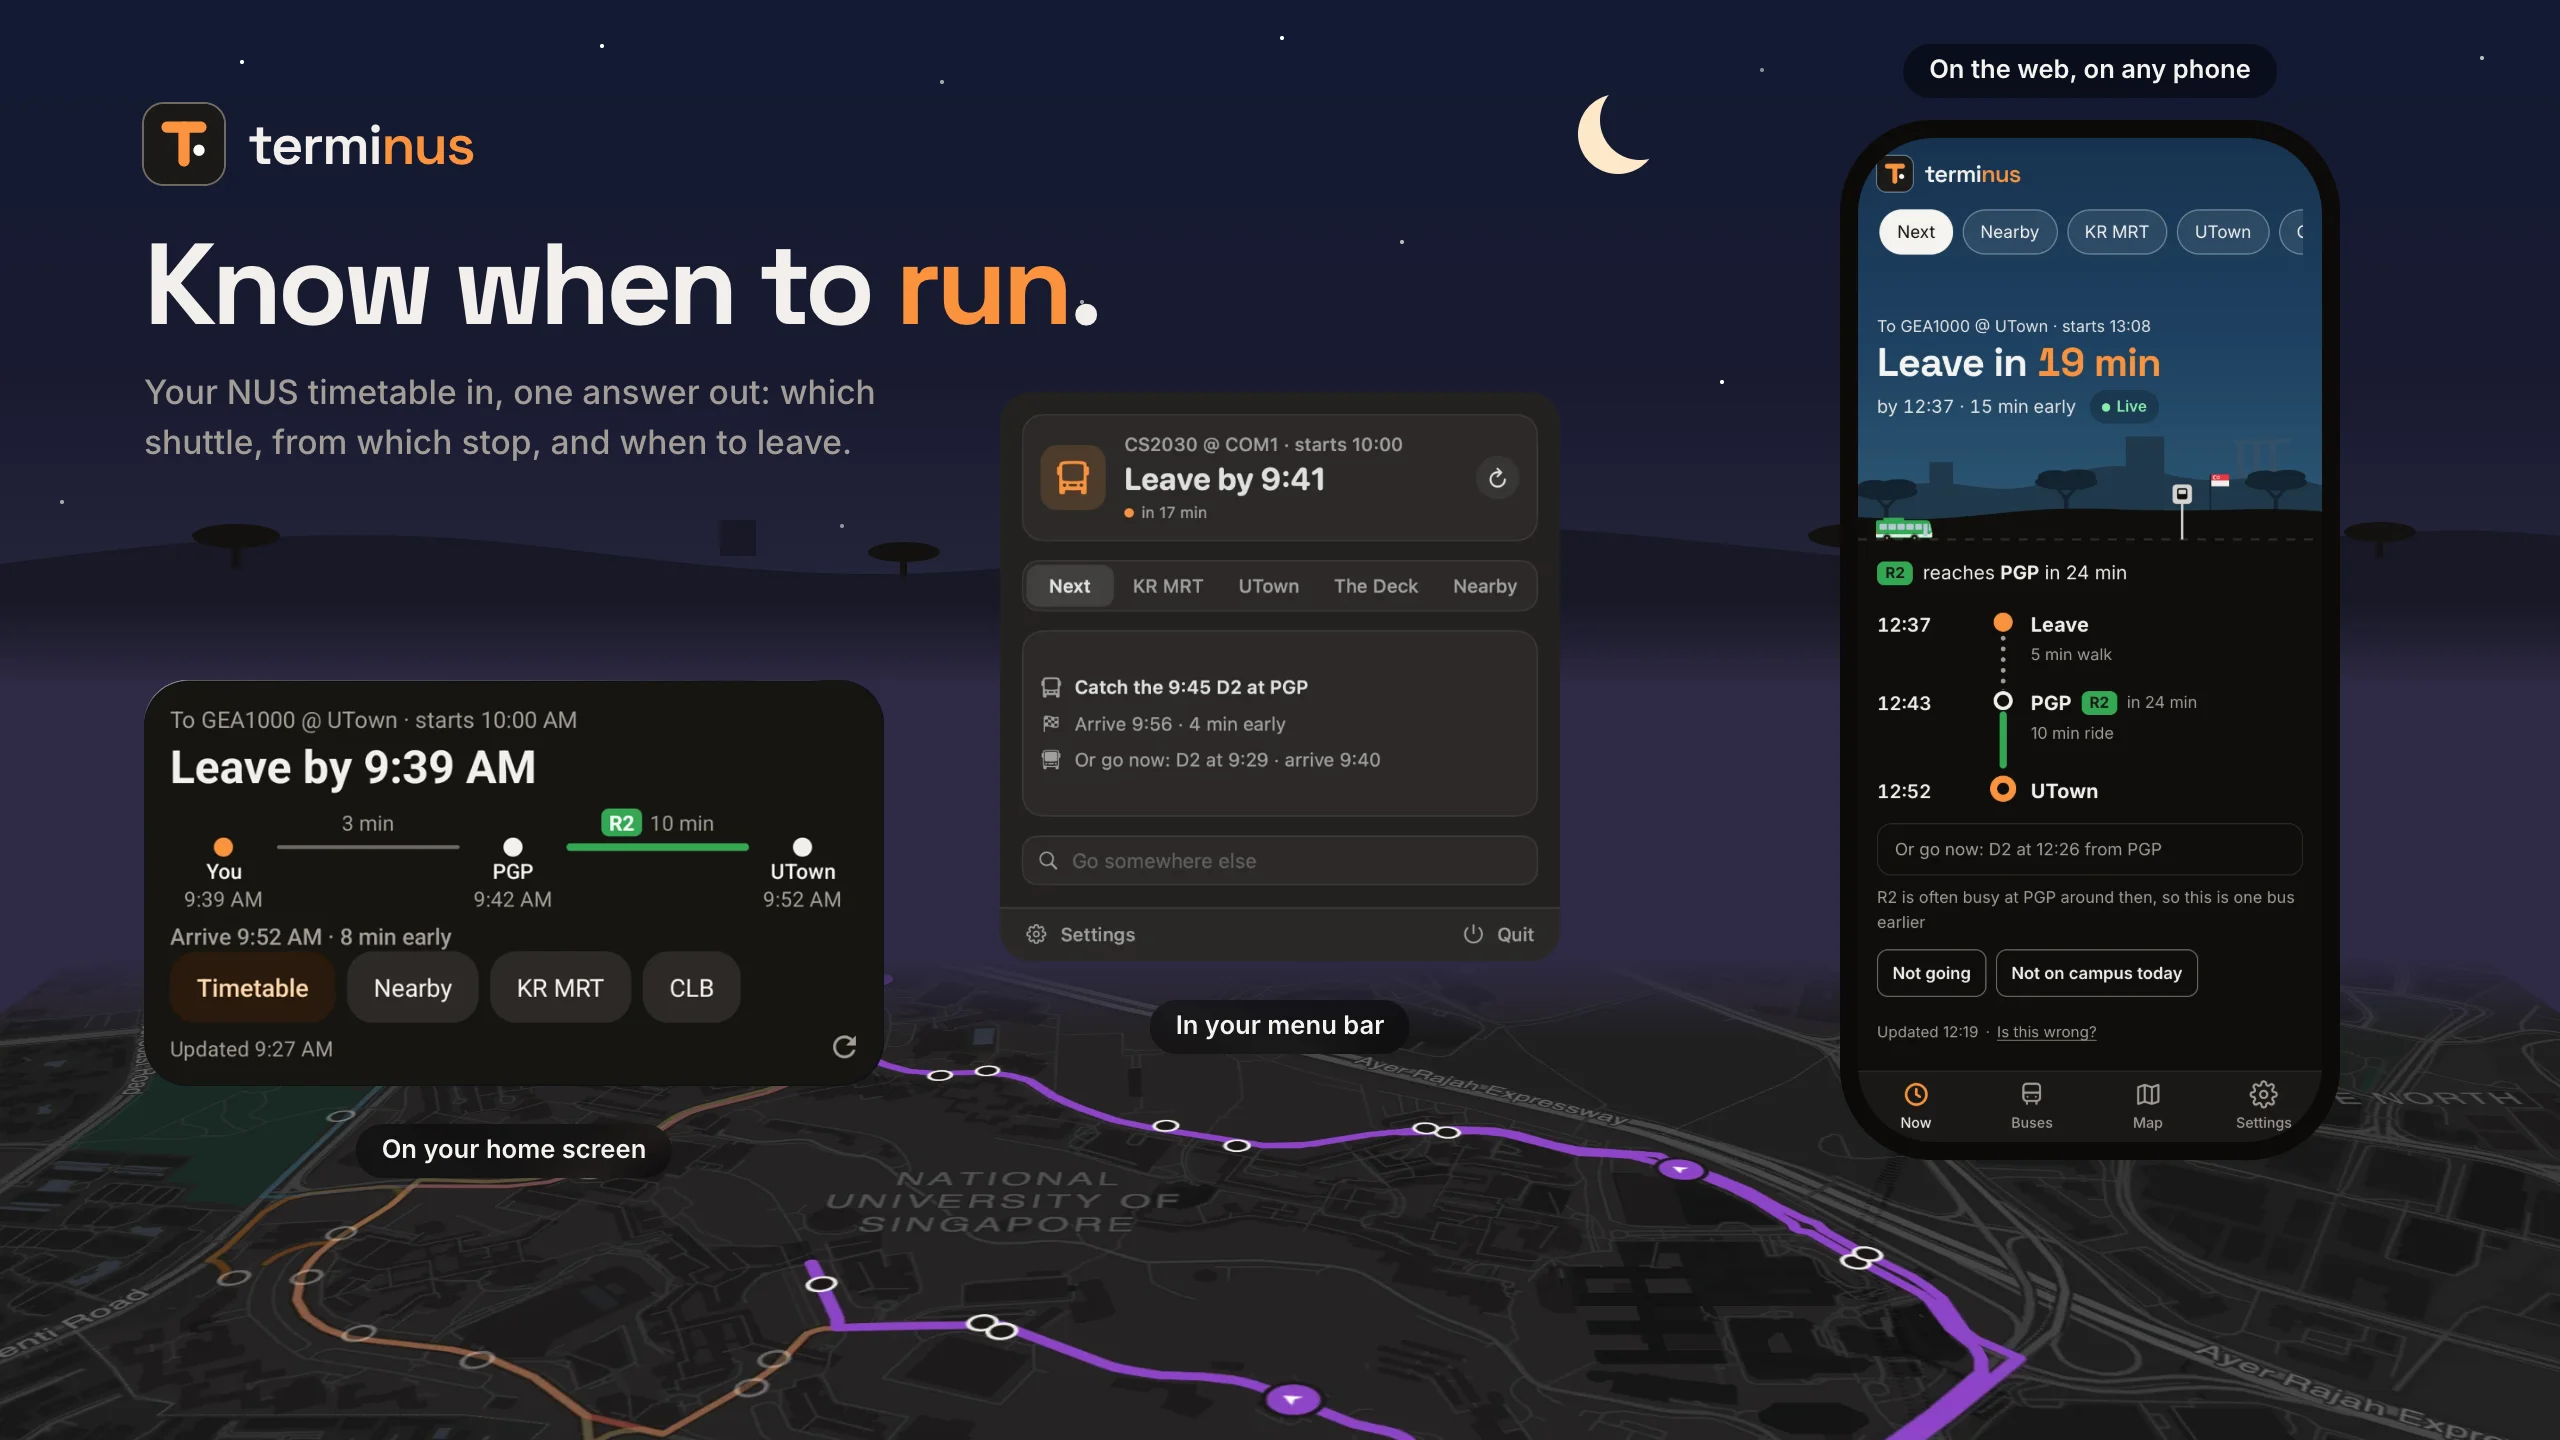
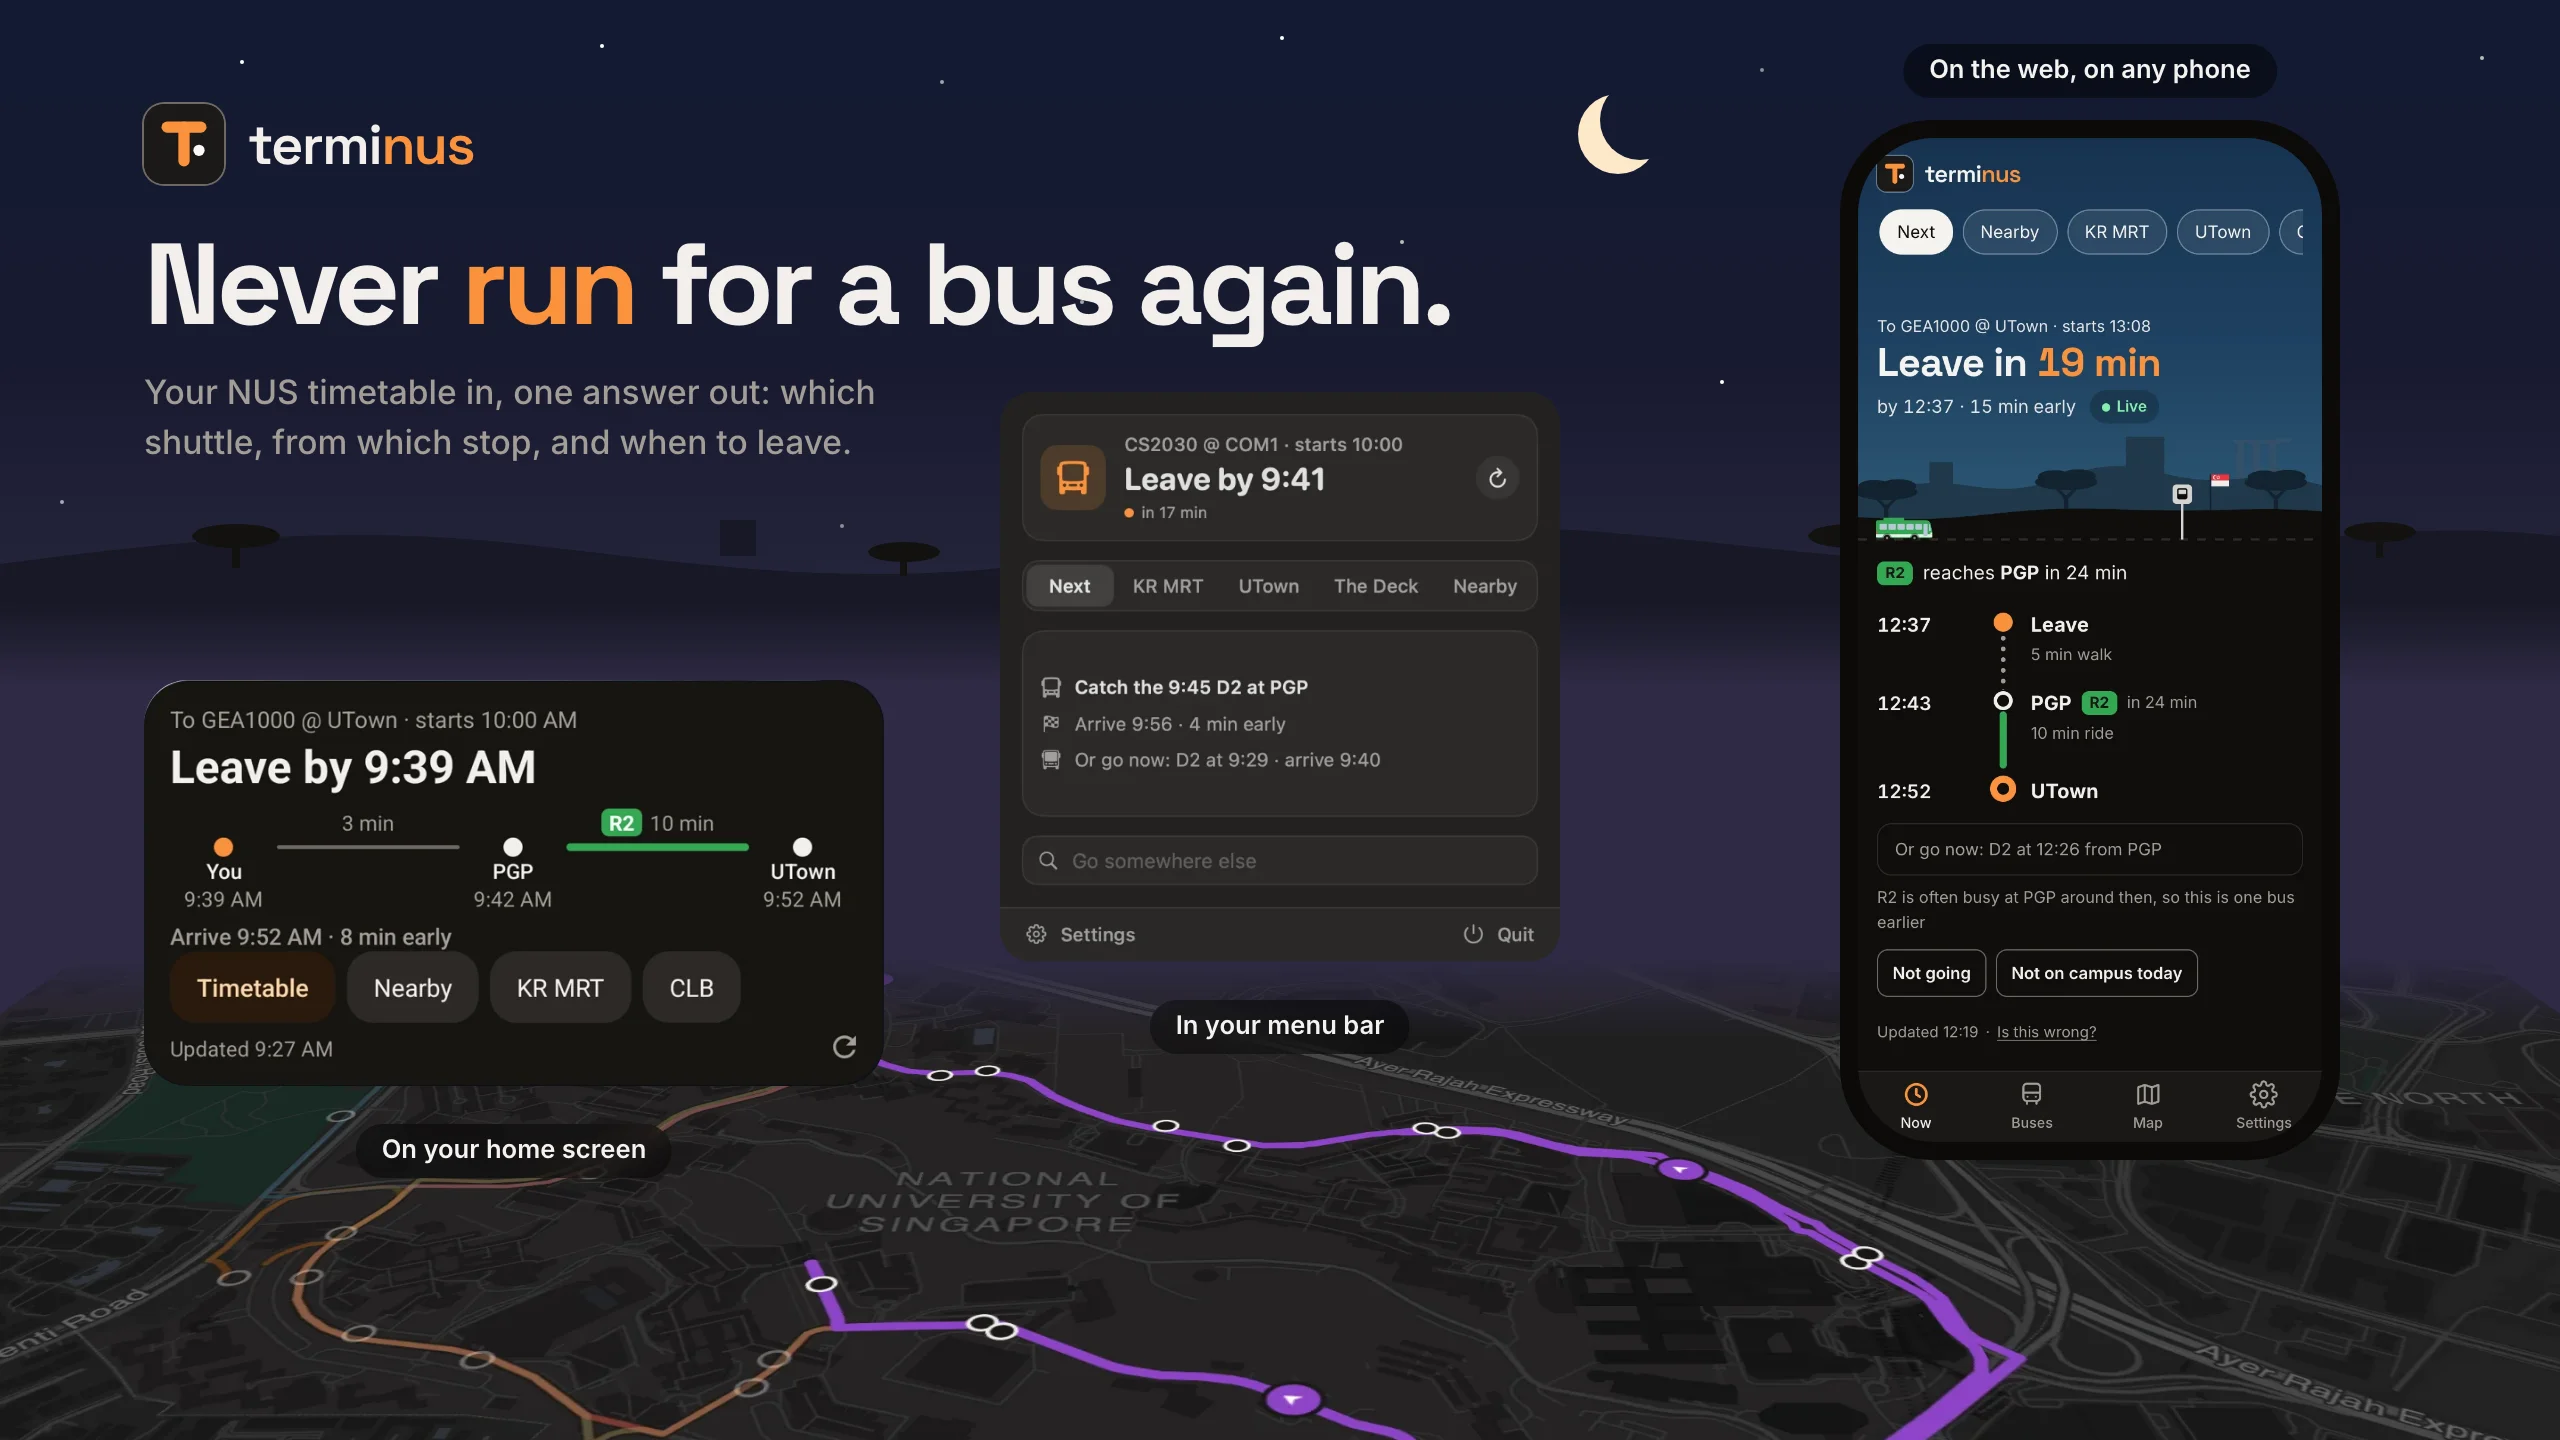
feat(web): the tagline is "Never run for a bus again."
"Know when to run" read as a hurry. The new line keeps the run, but as
the thing terminus saves you from. Changed on the landing page and its
Chinese, the link preview (title, alt text and og.png) and the README
banner, with both images re-rendered.

Changed region(s): [[0.0625, 0.1562, 0.5625, 0.25]]

diff --git a/apps/web/public/index.html b/apps/web/public/index.html
@@ -9,13 +9,13 @@
 <!-- How a link to terminus looks when it's shared (messages, social), and what search engines read about the app. -->
 <meta property="og:type" content="website">
 <meta property="og:site_name" content="terminus">
-<meta property="og:title" content="terminus: know when to run">
+<meta property="og:title" content="terminus: never run for a bus again">
 <meta property="og:description" content="Which NUS shuttle bus to catch, from which stop, and when to leave, from your NUSMods timetable. Live bus times, a campus map, an Android widget, a Mac menu bar app and the web. Free, and not affiliated with NUS.">
 <meta property="og:url" content="https://terminus.run/">
 <meta property="og:image" content="https://terminus.run/assets/og.png">
 <meta property="og:image:width" content="1280">
 <meta property="og:image:height" content="672">
-<meta property="og:image:alt" content="terminus: know when to run. The app's card says when to leave and which bus to catch.">
+<meta property="og:image:alt" content="terminus: never run for a bus again. The app's card says when to leave and which bus to catch.">
 <meta name="twitter:card" content="summary_large_image">
 <script type="application/ld+json">{"@context": "https://schema.org", "@type": "SoftwareApplication", "name": "terminus", "url": "https://terminus.run/", "description": "Which NUS shuttle bus to catch, from which stop, and when to leave, from your NUSMods timetable. Live bus times, a campus map, an Android widget, a Mac menu bar app and the web. Free, and not affiliated with NUS.", "image": "https://terminus.run/assets/og.png", "applicationCategory": "TravelApplication", "operatingSystem": "Android 12 or later, macOS 14 or later, web", "offers": {"@type": "Offer", "price": "0", "priceCurrency": "SGD"}, "downloadUrl": ["https://terminus.run/download/android", "https://terminus.run/download/mac"], "inLanguage": ["en", "zh-Hans"], "author": {"@type": "Person", "name": "rcnsh", "url": "https://rcn.sh"}}</script>
 <link rel="icon" href="/favicon.svg" type="image/svg+xml">
@@ -250,7 +250,7 @@
   <div class="wrap hero">
     <div class="hero-copy">
       <p class="sky-chip">For the NUS internal shuttle</p>
-      <h1>Know when to <em>run</em>.</h1>
+      <h1>Never <em>run</em> for a bus again.</h1>
       <p class="lede">Reads your NUSMods timetable and tells you when to leave for class: which shuttle, from which stop, or whether to walk.</p>
       <div class="cta" id="download">
         <a class="btn accent get-android" href="/download/android">Get it for Android</a>

diff --git a/apps/web/public/assets/zh.js b/apps/web/public/assets/zh.js
@@ -133,7 +133,7 @@ window.TERMINUS_ZH = {
  "This link is for {0}, which has ended. Copy this semester's link from NUSMods and import it below.": "此链接属于已结束的 {0}。请从 NUSMods 复制本学期的链接并在下方导入。",
  "Kept for 35 days and used only to spot classes you often miss or skip.": "保留 35 天，仅用于发现你经常错过或跳过的课。",
  "Key name": "密钥名称",
- "Know when to <em>run</em>.": "知道什么时候该<em>跑</em>。",
+ "Never <em>run</em> for a bus again.": "再也不用<em>跑</em>着赶车。",
  "Language": "语言",
  "Language and time": "语言和时间",
  "Time format": "时间格式",

diff --git a/.github/readme/banner.html b/.github/readme/banner.html
@@ -58,7 +58,7 @@
   <div class="copy">
     <div class="brand"><img src="../../apps/web/public/assets/mark.svg" alt=""><span class="wordmark">termi<b>nus</b></span></div>
     <span class="pill"><i></i>Public beta · for the NUS internal shuttle</span>
-    <h1>Know when<br>to <em>run</em>.</h1>
+    <h1>Never <em>run</em><br>for a bus again.</h1>
     <p class="lede">Your timetable in, one answer out: which shuttle, from which stop, and when to leave. Or when walking is faster.</p>
   </div>
   <div class="phone">

diff --git a/.github/readme/hero.html b/.github/readme/hero.html
@@ -121,7 +121,7 @@
 
   <div class="copy">
     <div class="brand"><img src="../../apps/web/public/assets/mark.svg" alt=""><span class="wordmark">termi<b>nus</b></span></div>
-    <h1>Know when to <em>run</em>.</h1>
+    <h1>Never <em>run</em> for a bus again.</h1>
     <p class="lede">Your NUS timetable in, one answer out: which shuttle, from which stop, and when to leave.</p>
   </div>
 

diff --git a/README.md b/README.md
@@ -1,7 +1,7 @@
 <a href="https://terminus.run">
   <picture>
     <source media="(prefers-color-scheme: dark)" srcset=".github/readme/banner-dark.webp">
-    <img alt="terminus: know when to run. Your NUS timetable in, one answer out: which shuttle, from which stop, and when to leave. Every client stands on the live campus map, with the D2 line and its buses running back to the horizon under the sky: the Android widget on your home screen (leave by 9:39 AM, walk to PGP, R2 to UTown), the Mac menu bar app (leave by 9:41, catch the 9:45 D2 at PGP) and the web app on a phone (leave in 19 minutes, live)." src=".github/readme/banner-light.webp" width="100%">
+    <img alt="terminus: never run for a bus again. Your NUS timetable in, one answer out: which shuttle, from which stop, and when to leave. Every client stands on the live campus map, with the D2 line and its buses running back to the horizon under the sky: the Android widget on your home screen (leave by 9:39 AM, walk to PGP, R2 to UTown), the Mac menu bar app (leave by 9:41, catch the 9:45 D2 at PGP) and the web app on a phone (leave in 19 minutes, live)." src=".github/readme/banner-light.webp" width="100%">
   </picture>
 </a>
 
